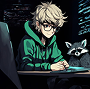
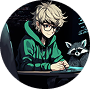
Стилизация секции personal-info и container.

diff --git a/index.html b/index.html
@@ -39,8 +39,8 @@
 										xmlns="http://www.w3.org/2000/svg"
 									>
 										<path
-											d="M10.0703 20.5029C10.0703 20.3563 10.038 20.2114 9.97578 20.0786C9.91353 19.9458 9.82284 19.8283 9.71014 19.7345C9.59743 19.6407 9.46546 19.5728 9.32359 19.5356C9.18171 19.4984 9.03341 19.493 8.88917 19.5195C7.58009 19.7597 5.92726 19.7959 5.4878 18.5615C5.10461 17.6055 4.46987 16.771 3.65089 16.1465C3.59246 16.1147 3.53677 16.0781 3.48439 16.0371C3.41272 15.8481 3.2854 15.6852 3.11925 15.5699C2.95311 15.4547 2.75592 15.3925 2.55372 15.3916H2.54884C2.28444 15.3915 2.03077 15.4962 1.84335 15.6827C1.65594 15.8692 1.55004 16.1223 1.54884 16.3867C1.54493 17.2022 2.35984 17.7246 2.69044 17.9014C3.08029 18.2931 3.39359 18.7541 3.61427 19.2608C3.97853 20.2842 5.03712 21.8369 8.08009 21.6368C8.08109 21.6719 8.08204 21.7051 8.08253 21.7354L8.08692 22.003C8.08692 22.2682 8.19228 22.5225 8.37982 22.7101C8.56735 22.8976 8.82171 23.003 9.08692 23.003C9.35214 23.003 9.60649 22.8976 9.79403 22.7101C9.98157 22.5225 10.0869 22.2682 10.0869 22.003L10.082 21.6846C10.0772 21.4951 10.0703 21.2207 10.0703 20.5029ZM20.7373 5.37691C20.7691 5.25191 20.8003 5.11324 20.8277 4.95699C20.9894 3.84258 20.8484 2.70518 20.4195 1.66399C20.3653 1.52825 20.2822 1.40599 20.1758 1.30579C20.0694 1.20559 19.9425 1.12986 19.8037 1.08392C19.4477 0.963798 18.1333 0.727468 15.6197 2.33392C13.5302 1.84221 11.3551 1.84221 9.26565 2.33392C6.76222 0.750998 5.4546 0.965798 5.10206 1.07908C4.95993 1.12316 4.82946 1.19848 4.72021 1.29954C4.61097 1.40059 4.52572 1.5248 4.47071 1.66308C4.03301 2.72426 3.89355 3.88485 4.06739 5.01952C4.09181 5.14745 4.11817 5.26562 4.14552 5.37401C3.31709 6.47745 2.87583 7.82337 2.89015 9.20311C2.88745 9.51094 2.90163 9.8187 2.93263 10.125C3.26663 14.7275 6.26663 16.1094 8.35694 16.584C8.31349 16.709 8.27394 16.8428 8.23878 16.9844C8.17612 17.2417 8.21805 17.5133 8.35538 17.7397C8.49271 17.9662 8.71422 18.1289 8.97135 18.1922C9.22848 18.2556 9.50024 18.2144 9.72703 18.0776C9.95382 17.9409 10.1171 17.7198 10.1812 17.4629C10.2448 17.1297 10.4079 16.8236 10.6489 16.5849C10.7947 16.4573 10.9002 16.2901 10.9527 16.1036C11.0052 15.9172 11.0023 15.7194 10.9445 15.5346C10.8866 15.3497 10.7763 15.1856 10.6269 15.0622C10.4775 14.9389 10.2955 14.8616 10.103 14.8398C6.64894 14.4453 5.14942 13.0381 4.92384 9.9414C4.89885 9.69613 4.88761 9.44965 4.89015 9.20312C4.87411 8.21977 5.19898 7.2612 5.80958 6.49023C5.87093 6.40985 5.93628 6.3326 6.00538 6.25878C6.12781 6.12178 6.21013 5.9537 6.2433 5.77298C6.27646 5.59227 6.25919 5.40591 6.19338 5.23437C6.12592 5.0539 6.07397 4.868 6.03811 4.6787C5.95664 4.14041 5.98337 3.59129 6.11671 3.06346C6.98585 3.30893 7.80383 3.7085 8.53171 4.24314C8.65208 4.32331 8.78828 4.37667 8.93108 4.39958C9.07388 4.4225 9.21994 4.41444 9.35935 4.37596C11.3805 3.82746 13.5113 3.8278 15.5322 4.37696C15.6724 4.4154 15.8192 4.423 15.9626 4.39923C16.106 4.37545 16.2425 4.32088 16.3628 4.23927C17.0872 3.70241 17.9018 3.29926 18.768 3.04884C18.9008 3.56399 18.9305 4.10029 18.8554 4.62696C18.8192 4.83449 18.7626 5.03796 18.6865 5.23439C18.6207 5.40593 18.6034 5.59229 18.6366 5.773C18.6697 5.95372 18.7521 6.1218 18.8745 6.2588C18.9516 6.34571 19.0288 6.43946 19.0981 6.52735C19.7044 7.28527 20.0238 8.23282 20 9.20311C20.0018 9.46272 19.9893 9.72223 19.9624 9.98045C19.7422 13.0361 18.2368 14.4443 14.7666 14.8398C14.5741 14.8617 14.392 14.9391 14.2427 15.0626C14.0933 15.1861 13.983 15.3503 13.9253 15.5352C13.8675 15.7202 13.8647 15.918 13.9172 16.1045C13.9698 16.2911 14.0754 16.4583 14.2212 16.5859C14.4698 16.8309 14.6333 17.1493 14.6875 17.4941C14.7551 17.7618 14.7861 18.0374 14.7798 18.3135V20.6475C14.77 21.2949 14.77 21.7802 14.77 22.0029C14.77 22.2681 14.8754 22.5225 15.0629 22.71C15.2504 22.8976 15.5048 23.0029 15.77 23.0029C16.0352 23.0029 16.2896 22.8976 16.4771 22.71C16.6647 22.5225 16.77 22.2681 16.77 22.0029C16.77 21.7861 16.77 21.3105 16.7798 20.6631V18.3135C16.7878 17.8713 16.7358 17.4301 16.625 17.0019C16.5933 16.8614 16.5545 16.7225 16.5088 16.5859C18.03 16.3332 19.4123 15.5489 20.4094 14.3725C21.4065 13.1962 21.9539 11.7042 21.9541 10.1621C21.987 9.84352 22.0024 9.52337 22 9.20311C22.0222 7.82188 21.5773 6.47363 20.7373 5.37693L20.7373 5.37691Z"
-											fill="black"
+											d="M12 2.2467C9.6255 2.2468 7.32849 3.09182 5.51999 4.63055C3.71149 6.16929 2.50953 8.30133 2.12916 10.6452C1.74879 12.989 2.21485 15.3918 3.44393 17.4235C4.67301 19.4551 6.58491 20.9832 8.83755 21.7342C9.33755 21.8217 9.52505 21.5217 9.52505 21.2592C9.52505 21.0217 9.51254 20.2342 9.51254 19.3967C7.00003 19.8592 6.35003 18.7842 6.15003 18.2217C5.9281 17.6747 5.5763 17.1899 5.12503 16.8092C4.77503 16.6217 4.27503 16.1592 5.11252 16.1467C5.4323 16.1814 5.73901 16.2927 6.00666 16.4711C6.2743 16.6495 6.49499 16.8899 6.65003 17.1717C6.7868 17.4174 6.97071 17.6337 7.19122 17.8082C7.41173 17.9827 7.6645 18.112 7.93506 18.1886C8.20562 18.2652 8.48864 18.2877 8.76791 18.2548C9.04717 18.2219 9.3172 18.1342 9.56251 17.9967C9.6058 17.4883 9.83237 17.013 10.2 16.6592C7.97503 16.4092 5.65003 15.5467 5.65003 11.7217C5.63597 10.7279 6.00271 9.76631 6.67503 9.03423C6.36931 8.17045 6.40508 7.22252 6.77503 6.38423C6.77503 6.38423 7.6125 6.12172 9.52503 7.40923C11.1613 6.95921 12.8887 6.95921 14.525 7.40923C16.4375 6.10923 17.275 6.38423 17.275 6.38423C17.645 7.22251 17.6808 8.17046 17.375 9.03423C18.0494 9.76506 18.4164 10.7275 18.4 11.7217C18.4 15.5592 16.0625 16.4092 13.8375 16.6592C14.0762 16.9011 14.26 17.1915 14.3764 17.5107C14.4929 17.83 14.5393 18.1705 14.5125 18.5092C14.5125 19.8468 14.5 20.9217 14.5 21.2592C14.5 21.5217 14.6875 21.8342 15.1875 21.7342C17.4362 20.9771 19.3426 19.4455 20.5664 17.4128C21.7903 15.38 22.2519 12.9785 21.8689 10.6369C21.4859 8.29535 20.2832 6.16608 18.4755 4.62922C16.6678 3.09235 14.3727 2.24794 12 2.2467Z"
+											fill="currentColor"
 										/>
 									</svg>
 								</a>
@@ -60,8 +60,8 @@
 										xmlns="http://www.w3.org/2000/svg"
 									>
 										<path
-											d="M22.2647 2.42772C21.98 2.19085 21.6364 2.03561 21.2704 1.97852C20.9045 1.92143 20.5299 1.96463 20.1866 2.10351L2.26566 9.33886C1.88241 9.49654 1.55618 9.76705 1.33026 10.1145C1.10434 10.4619 0.989427 10.8698 1.00076 11.2841C1.0121 11.6984 1.14916 12.0994 1.39374 12.4339C1.63832 12.7685 1.97886 13.0207 2.37016 13.1572L5.99516 14.418L8.01566 21.0996C8.04312 21.1889 8.08297 21.2738 8.13404 21.352C8.14179 21.364 8.15272 21.3729 8.16096 21.3846C8.21996 21.4669 8.29127 21.5397 8.37239 21.6003C8.39546 21.6179 8.41755 21.6344 8.44221 21.65C8.53714 21.713 8.64228 21.7591 8.75294 21.7861L8.76478 21.7871L8.77149 21.79C8.83802 21.8035 8.90574 21.8104 8.97364 21.8105C8.98017 21.8105 8.98597 21.8074 8.99244 21.8073C9.0949 21.8055 9.19647 21.7878 9.29353 21.755C9.31611 21.7473 9.33546 21.7344 9.35737 21.7251C9.42975 21.6951 9.49832 21.6567 9.56166 21.6106C9.61238 21.5678 9.66312 21.5251 9.71388 21.4824L12.416 18.499L16.4463 21.6211C16.8011 21.8973 17.2379 22.0474 17.6875 22.0478C18.1587 22.0472 18.6154 21.8846 18.9809 21.5874C19.3465 21.2901 19.5987 20.8762 19.6954 20.415L22.958 4.39843C23.032 4.03795 23.0065 3.66415 22.8844 3.31702C22.7623 2.96989 22.5481 2.66249 22.2647 2.42772ZM9.37016 14.7363C9.2315 14.8744 9.13672 15.0504 9.0977 15.2422L8.78819 16.7462L8.00413 14.1531L12.0694 12.0362L9.37016 14.7363ZM17.6719 20.04L12.9092 16.3505C12.71 16.1966 12.46 16.1233 12.2092 16.1454C11.9583 16.1675 11.725 16.2833 11.5557 16.4697L10.6903 17.4249L10.9961 15.9384L18.0791 8.85543C18.2482 8.68659 18.3512 8.46278 18.3695 8.22455C18.3878 7.98632 18.3201 7.74941 18.1788 7.55675C18.0375 7.36408 17.8319 7.22839 17.5992 7.17426C17.3664 7.12014 17.122 7.15115 16.9102 7.26168L6.74491 12.5543L3.02055 11.1914L20.999 3.99899L17.6719 20.04Z"
-											fill="black"
+											d="M11.9944 2C10.0166 2 8.08318 2.58649 6.43869 3.6853C4.7942 4.78412 3.51247 6.3459 2.75559 8.17317C1.99872 10.0004 1.80068 12.0111 2.18654 13.9509C2.57239 15.8907 3.5248 17.6725 4.92332 19.0711C6.32185 20.4696 8.10368 21.422 10.0435 21.8079C11.9833 22.1937 13.994 21.9957 15.8212 21.2388C17.6485 20.4819 19.2103 19.2002 20.3091 17.5557C21.4079 15.9112 21.9944 13.9778 21.9944 12C21.9945 10.6868 21.7359 9.38634 21.2334 8.17304C20.7309 6.95973 19.9943 5.8573 19.0657 4.92869C18.1371 4.00008 17.0347 3.26349 15.8214 2.76098C14.608 2.25847 13.3076 1.99989 11.9944 2ZM15.1739 17.1525C15.1365 17.2458 15.0795 17.33 15.0069 17.3996C14.9342 17.4691 14.8475 17.5223 14.7527 17.5556C14.6578 17.5889 14.5569 17.6015 14.4567 17.5926C14.3565 17.5837 14.2594 17.5535 14.1719 17.504L11.4572 15.3946L9.71491 17.002C9.67448 17.0319 9.62719 17.0511 9.57739 17.0579C9.52758 17.0647 9.47687 17.0589 9.42991 17.0409L9.76391 14.0525L9.7746 14.061L9.78143 14.002C9.78143 14.002 14.6664 9.55445 14.8654 9.36496C15.0669 9.17596 15.0004 9.13496 15.0004 9.13496C15.0119 8.90443 14.6389 9.13496 14.6389 9.13496L8.16639 13.299L5.4709 12.381C5.4709 12.381 5.0569 12.2325 5.0179 11.906C4.9769 11.582 5.48439 11.406 5.48439 11.406L16.2014 7.14849C16.2014 7.14849 17.0824 6.75597 17.0824 7.406L15.1739 17.1525Z"
+											fill="currentColor"
 										/>
 									</svg>
 								</a>

diff --git a/style.css b/style.css
@@ -45,3 +45,52 @@ body {
 	color: var(--gray-600);
 	background-color: var(--light-mode-background);
 }
+
+.container {
+	max-width: 650px;
+	margin: 0 auto;
+}
+
+.personal-info__content {
+	display: flex;
+	flex-wrap: wrap;
+	gap: 24px;
+}
+
+.personal-info__logo {
+	max-width: 110px;
+	max-height: 110px;
+	padding: 6px;
+	border-radius: 50%;
+	border: 4px solid var(--primary-color);
+}
+
+.personal-info__content {
+	text-align: left;
+	align-items: center;
+}
+
+.personal-info__title {
+	font-size: 32px;
+	line-height: 1.5;
+	font-weight: 600;
+	color: var(--gray-700);
+}
+
+.personal-info__subtitle {
+	margin-bottom: 8px;
+	color: var(--gray-500);
+}
+
+.personal-info__social-list {
+	display: flex;
+	flex-wrap: wrap;
+	gap: 24px;
+}
+
+.personal-info__social-link {
+	color: var(--gray-500);
+}
+.personal-info__social-link:hover {
+	color: var(--gray-700);
+}

diff --git a/modern-normalize.css b/modern-normalize.css
@@ -211,6 +211,17 @@ summary {
 }
 
 /* My update */
+h1,
+h2,
+h3,
+h4,
+h5,
+h6,
+p {
+	margin: 0;
+	padding: 0;
+}
+
 ul {
 	list-style: none;
 	padding: 0;
